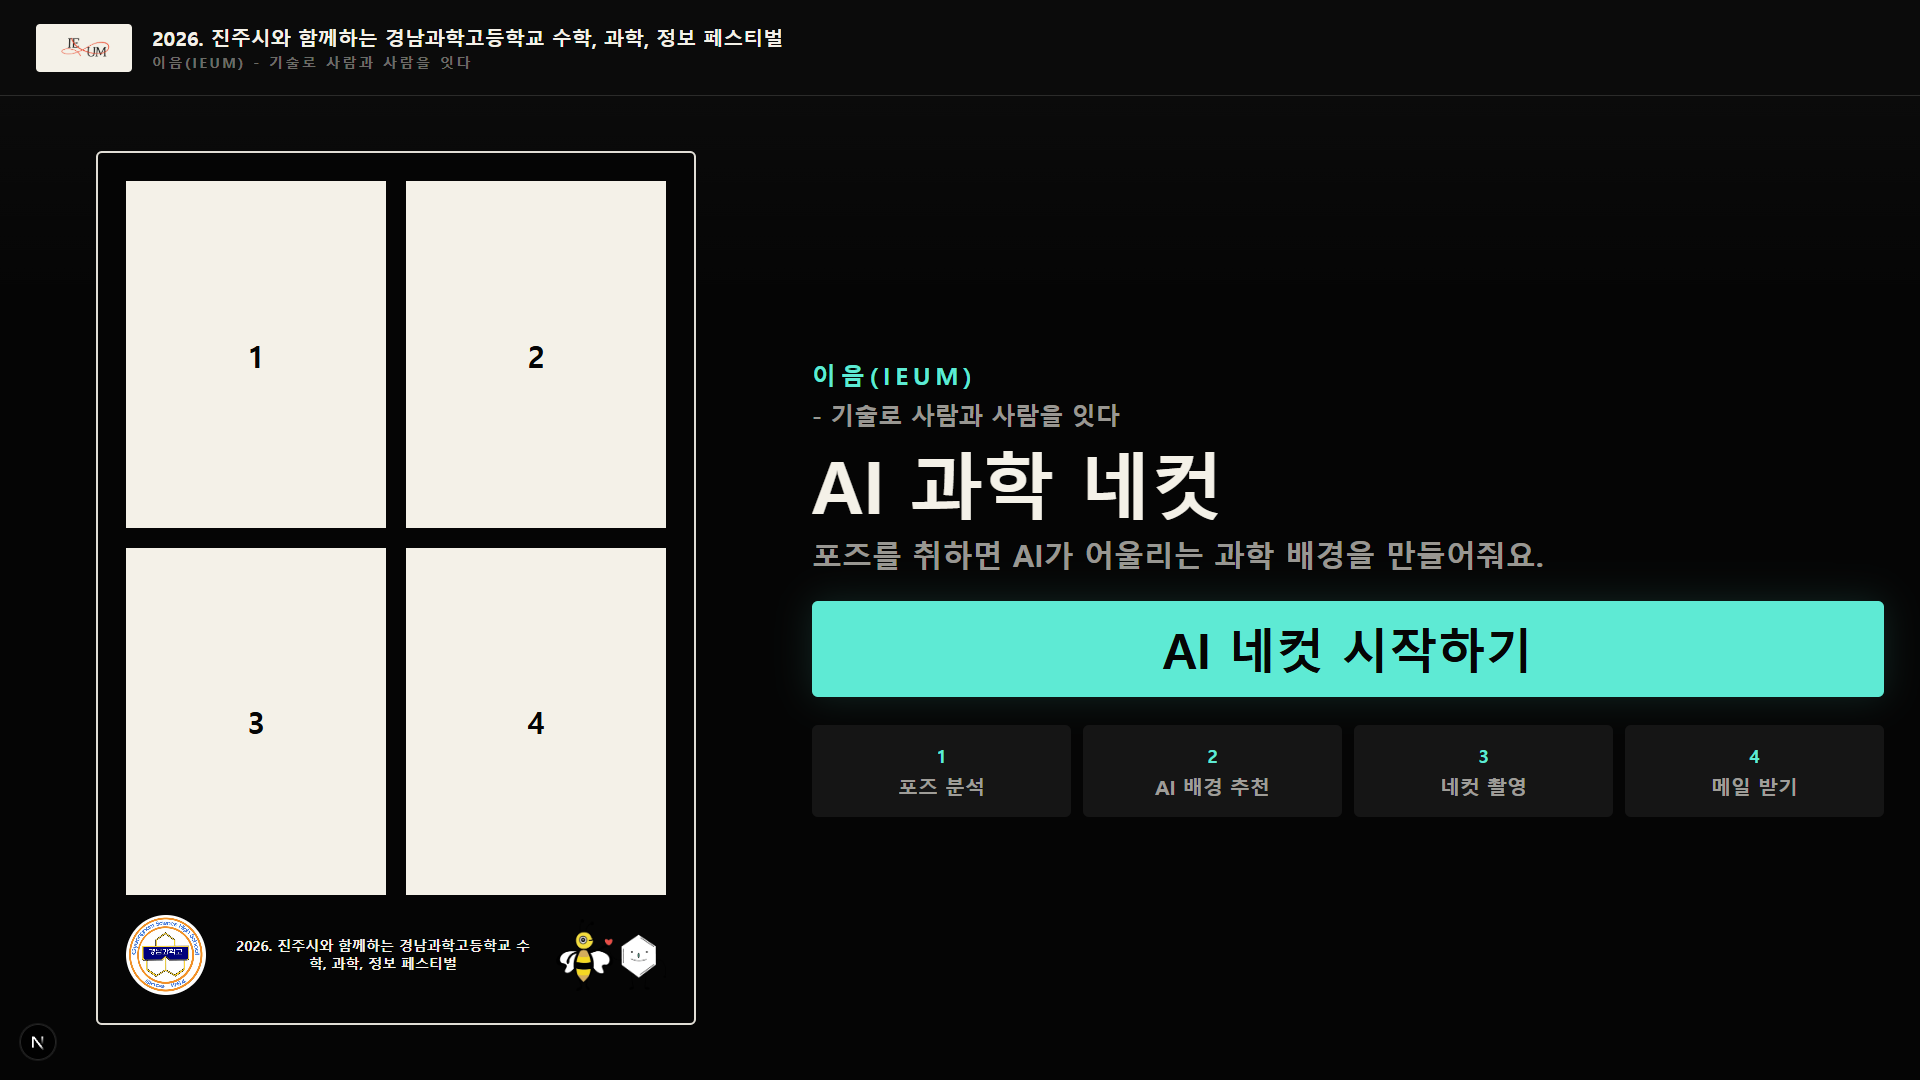
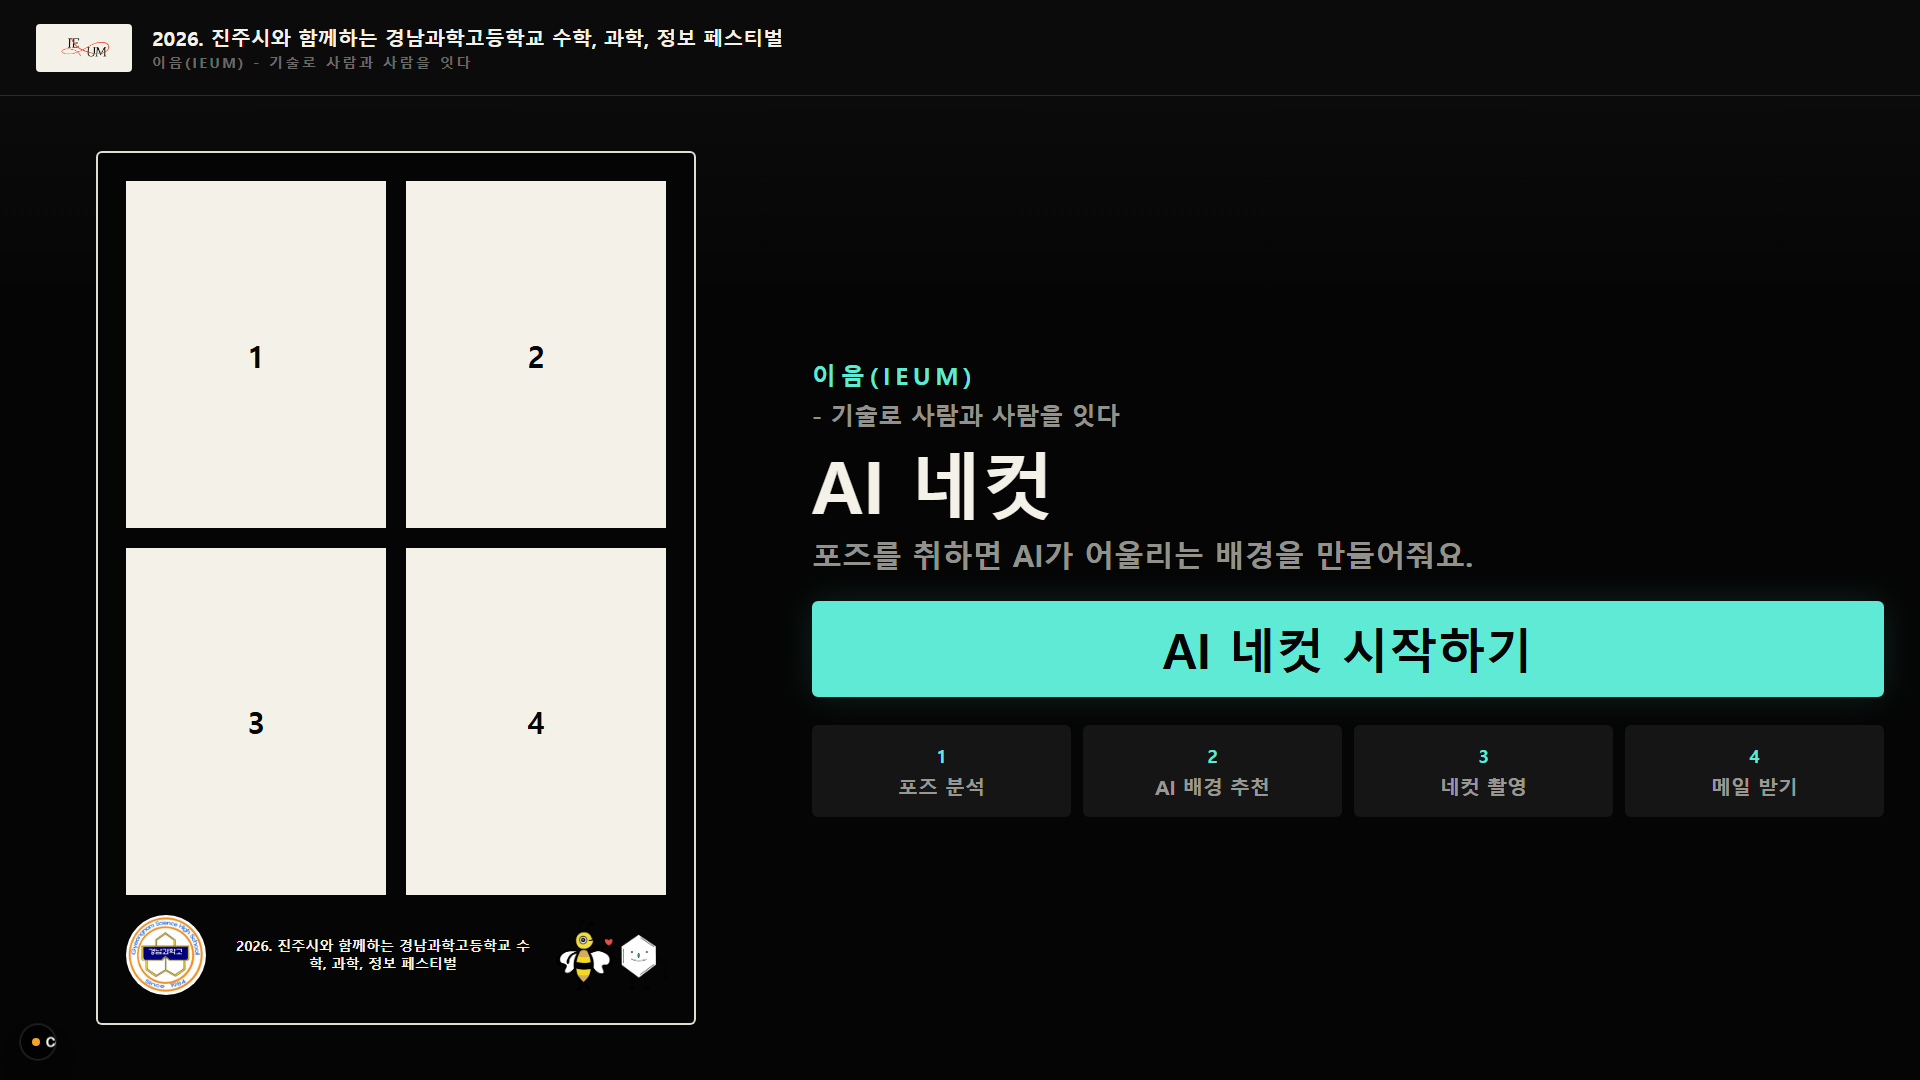
Update start screen copy

Changed region(s): [[0.4688, 0.3972, 0.6562, 0.4889], [0.625, 0.4889, 0.8125, 0.55], [0.0625, 0.8556, 0.125, 0.9167]]

diff --git a/components/BoothApp.tsx b/components/BoothApp.tsx
@@ -134,7 +134,7 @@ function presetKeywords(analysis: PoseAnalysis, index: number): SelectedKeywords
 
 function conceptTitle(selection: SelectedKeywords | null): string {
   if (!selection) {
-    return "AI 과학 네컷";
+    return "AI 네컷";
   }
   return `${selection.color} ${selection.effect} ${selection.theme}`;
 }
@@ -1117,9 +1117,9 @@ export function BoothApp() {
                     <p className="text-2xl font-black tracking-[0.2em] text-[var(--primary)]">{CLUB_NAME}</p>
                     <p className="safe-text text-2xl font-black text-[var(--text-muted)]">{CLUB_SLOGAN}</p>
                   </div>
-                  <h1 className="safe-text text-[72px] font-black leading-[1.02]">AI 과학 네컷</h1>
+                  <h1 className="safe-text text-[72px] font-black leading-[1.02]">AI 네컷</h1>
                   <p className="safe-text max-w-[820px] text-3xl font-black leading-[1.25] text-[var(--text-muted)]">
-                    포즈를 취하면 AI가 어울리는 과학 배경을 만들어줘요.
+                    포즈를 취하면 AI가 어울리는 배경을 만들어줘요.
                   </p>
                 </div>
 
